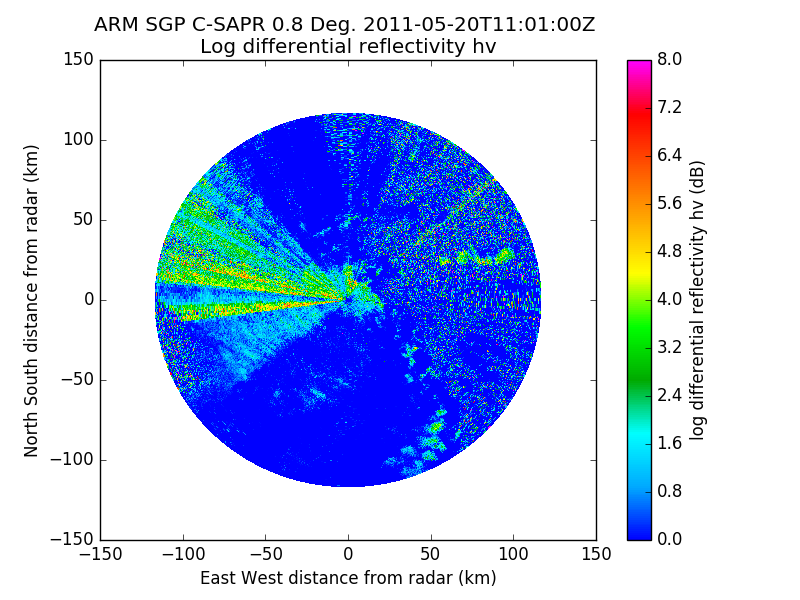
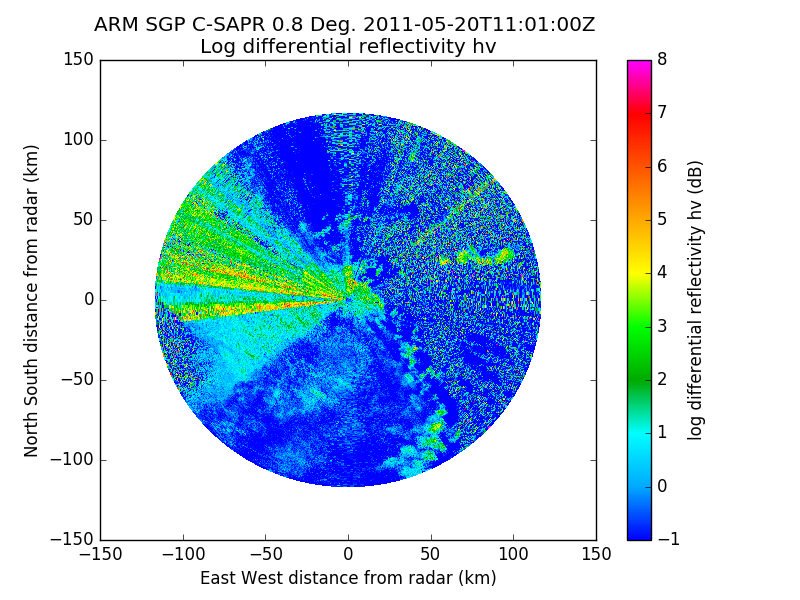
Change differential_reflectivity vmin to -1

diff --git a/plot_xsapr_fields.py b/plot_xsapr_fields.py
@@ -13,8 +13,8 @@ fields_to_plot = {
     'velocity': ('pyart_BuDRd18', -nyquist, nyquist),
     'spectrum_width': ('pyart_NWS_SPW', 0, nyquist),
     'normalized_coherent_power': ('pyart_Carbone17', 0.0, 1.0),
-    'differential_reflectivity': ('pyart_RefDiff', 0, 8),
-    'corrected_differential_reflectivity': ('pyart_RefDiff', 0, 8),
+    'differential_reflectivity': ('pyart_RefDiff', -1, 8),
+    'corrected_differential_reflectivity': ('pyart_RefDiff', -1, 8),
     'cross_correlation_ratio': ('pyart_RefDiff', 0.5, 1.05),
     'differential_phase': ('pyart_Wild25', -180, 180),
     'specific_differential_phase': ('pyart_Theodore16', -2, 5),

diff --git a/plot_csapr_fields.py b/plot_csapr_fields.py
@@ -13,7 +13,7 @@ fields_to_plot = {
     'velocity': ('pyart_BuDRd18', -nyquist, nyquist),
     'spectrum_width': ('pyart_NWS_SPW', 0, nyquist),
     'normalized_coherent_power': ('pyart_Carbone17', 0.0, 1.0),
-    'differential_reflectivity': ('pyart_RefDiff', 0, 8),
+    'differential_reflectivity': ('pyart_RefDiff', -1, 8),
     'cross_correlation_ratio': ('pyart_RefDiff', 0.5, 1.05),
     'differential_phase': ('pyart_Wild25', -180, 180),
     'specific_differential_phase': ('pyart_Theodore16', -2, 5),

diff --git a/plot_nexrad_fields.py b/plot_nexrad_fields.py
@@ -10,7 +10,7 @@ fields_to_plot = {
     'reflectivity': ('pyart_NWSRef', -30, 75),
     'velocity': ('pyart_BuDRd18', -nyquist, nyquist),
     'spectrum_width': ('pyart_NWS_SPW', 0, nyquist),
-    'differential_reflectivity': ('pyart_RefDiff', 0, 8),
+    'differential_reflectivity': ('pyart_RefDiff', -1, 8),
     'cross_correlation_ratio': ('pyart_RefDiff', 0.5, 1.05),
     'differential_phase': ('pyart_Wild25', -180, 180),
 }

diff --git a/defaults_table.md b/defaults_table.md
@@ -16,8 +16,8 @@
 |                                       |                           |             |               |                           |           |
 | normalized_coherent_power             |   pyart_Carbone17         |   0.0       |   1.0         |                           | Yes       |
 |                                       |                           |             |               |                           |           |
-| differential_reflectivity             |   pyart_RefDiff           |   0         |   8           |                           | Yes       |
-| corrected_differential_reflectivity   |   pyart_RefDiff           |   0         |   8           |                           | Yes       |
+| differential_reflectivity             |   pyart_RefDiff           |   -1        |   8           |                           | Yes       |
+| corrected_differential_reflectivity   |   pyart_RefDiff           |   -1        |   8           |                           | Yes       |
 |                                       |                           |             |               |                           |           |
 | cross_correlation_ratio               |   pyart_RefDiff           |   0.5       |   1.05        |                           | Yes       |
 |                                       |                           |             |               |                           |           |
